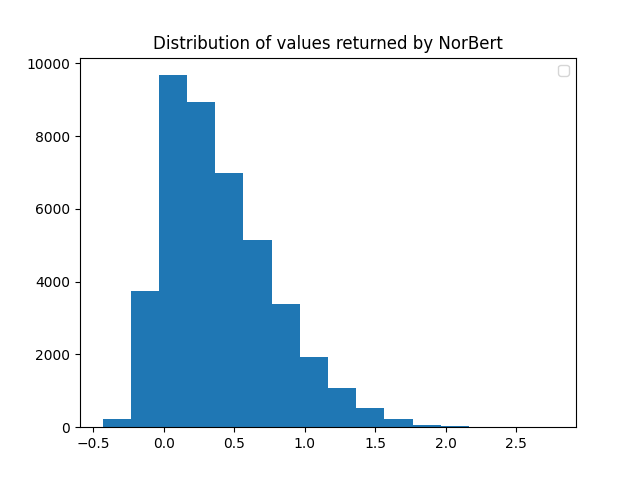
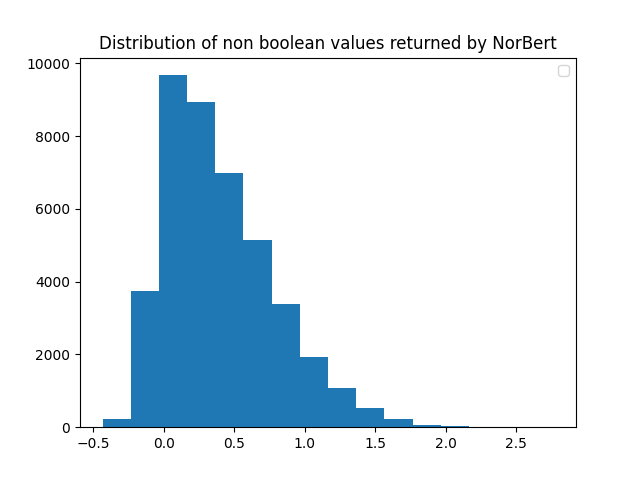
re add

Changed region(s): [[0.1562, 0.0625, 0.875, 0.125]]

diff --git a/plot_sentiment.py b/plot_sentiment.py
@@ -60,7 +60,7 @@ def plot_uncertainty_hist():
     plt.hist(max_label, bins=np.arange(min(max_label), max(max_label) + binwidth, binwidth))
 
     plt.legend()
-    plt.title('Distribution of values returned by NorBert')
+    plt.title('Distribution of non boolean values returned by NorBert')
     plt.savefig('fig/uncertainty_hist.png')
 
 
